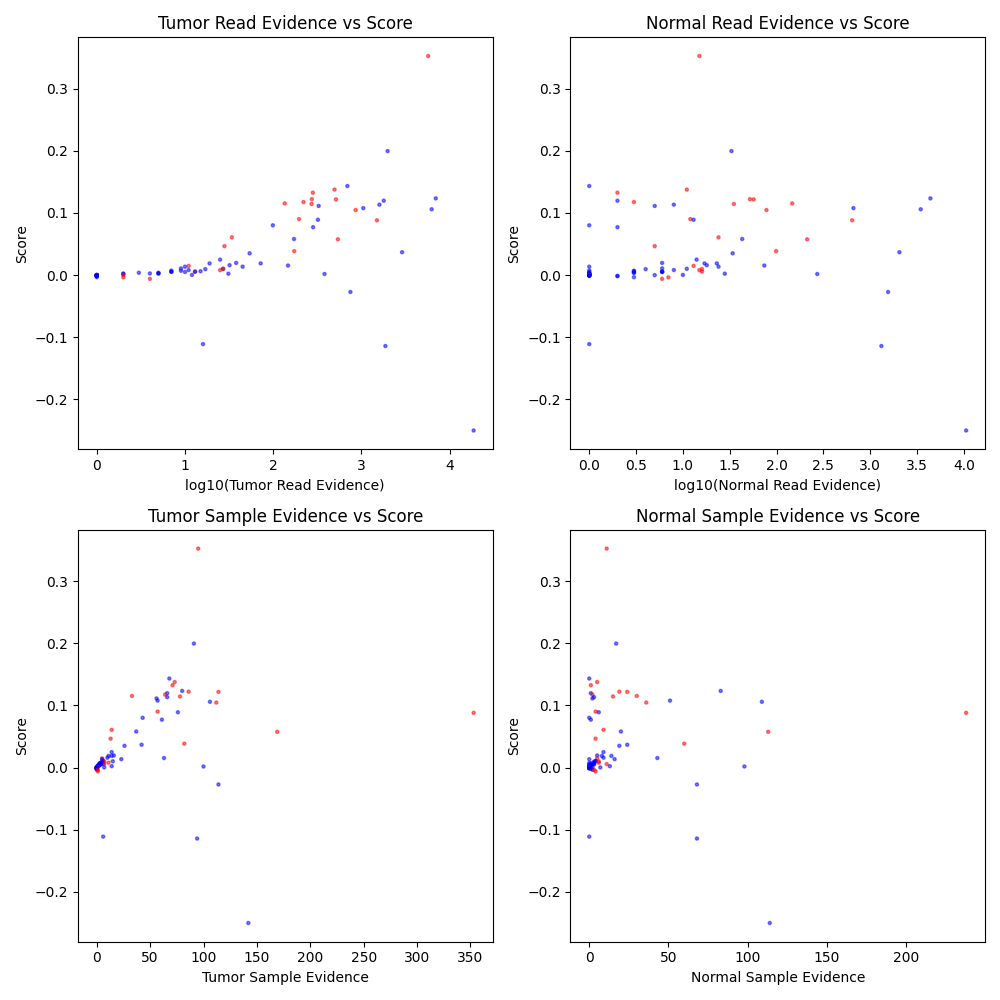
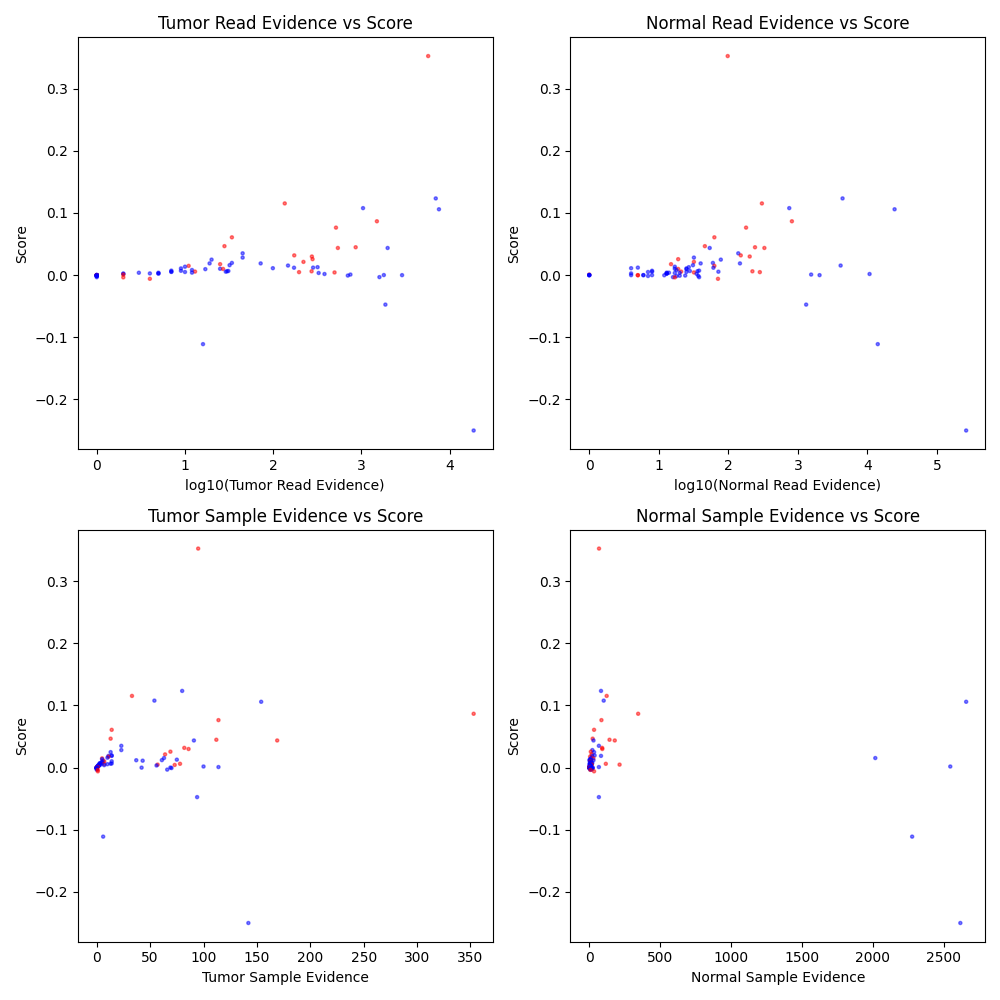
latest tumor v normal roc

diff --git a/results/2026_05-g2f-tumor_and_normal-rerun/score_tumor_fusions.py b/results/2026_05-g2f-tumor_and_normal-rerun/score_tumor_fusions.py
@@ -13,6 +13,7 @@ parser.add_argument('--colmap', default='score_column_map.yaml')
 parser.add_argument('--output', default='tumor-scored.tsv')
 parser.add_argument('--tumor_fusion_tissues', default='../2026_04-s2f_pcawg_recurrent/recurrent_tumor_fusions.tsv')
 parser.add_argument('--shardfile', default='./shardfile.tsv')
+parser.add_argument('--include_rna', action='store_true', help='whether to include rna evidence columns in scoring')
 
 args = parser.parse_args()
 
@@ -29,7 +30,13 @@ def tissue_w_data(tissues):
 
 # readinputs
 df_evidence = pd.read_csv(args.fusion_evidence, sep='\t')
+# use high cov 1000g, not low cov
 drop_cols = ['reads_low_coverage_1000g_dna', 'samples_low_coverage_1000g_dna']
+# optionally exclude rna
+if not args.include_rna:
+    for c in df_evidence.columns:
+        if c.endswith('_rna'):
+            drop_cols.append(c)
 df_evidence = df_evidence.drop(columns=drop_cols)
 df_tumor = pd.read_csv(args.tumor_fusions, sep='\t')
 df_tumor_fusion_tissues = pd.read_csv(args.tumor_fusion_tissues, sep='\t')
@@ -58,6 +65,9 @@ df_tumor = df_tumor[df_tumor['tissue_w_data'].apply(len) > 0].reset_index(drop=T
 # normalize evidence
 with open(args.colmap) as f:
     column_map = yaml.safe_load(f)
+if not args.include_rna:
+    # remove rna evidence columns from column map
+    column_map = {k:v for k,v in column_map.items() if not k.endswith('_rna')}
 df_evidence_tumor = pd.merge(
     df_tumor,
     df_evidence,

diff --git a/results/2026_06-roc_tumor_v_normal_tissue_specific/README.md b/results/2026_06-roc_tumor_v_normal_tissue_specific/README.md
@@ -9,3 +9,33 @@ for three different scoring techniques, use score as threshold in ROC
 i) aggregate evidence from all tissues, weighted by subpopulation size
 ii) aggregate evidence from all tissues, uniform subpop weights
 iii) score using only tissue where fusion occurs, uniform subpop-tissue weights
+
+# misclassification analysis
+
+- ZNF765--TPM3P9
+	- label: normal
+	- score: ~0.2
+	- data: {'reads_high_coverage_1000g_dna': 21.0, 'samples_high_coverage_1000g_dna': 13.0, 'reads_ovary_normal_dna': 32.0, 'samples_ovary_normal_dna': 17.0, 'reads_ovary_tumor_dna': 31.0, 'samples_ovary_tumor_dna': 21.0, 'reads_ovary_tumor_rna': 1946.0, 'samples_ovary_tumor_rna': 70.0}
+	- reason: RNA-seq is only available for tumor samples, not paired normal, causing positive score
+- SIDT2--TAGLN
+	- label: normal
+	- score: ~0.14
+	- data:  {'reads_bone_normal_dna': 0.0, 'samples_bone_normal_dna': 0.0, 'reads_bone_tumor_dna': 8.0, 'samples_bone_tumor_dna': 2.0, 'reads_esophagus_normal_dna': 0.0, 'samples_esophagus_normal_dna': 0.0, 'reads_esophagus_normal_dna': 0.0, 'samples_esophagus_normal_dna': 0.0, 'reads_esophagus_tumor_dna': 0.0, 'samples_esophagus_tumor_dna': 0.0, 'reads_gallbladder_normal_dna': 0.0, 'samples_gallbladder_normal_dna': 0.0, 'reads_gallbladder_tumor_dna': 0.0, 'samples_gallbladder_tumor_dna': 0.0, 'reads_high_coverage_1000g_dna': 23.0, 'samples_high_coverage_1000g_dna': 14.0, 'reads_pancreas_tumor_rna': 691.0, 'samples_pancreas_tumor_rna': 68.0}
+	- reason: RNA-seq is only available for tumor samples, not paired normal, causing positive score
+- NDC80--SMCHD1
+	- label: tumor
+	- score: ~-0.006
+	- data: {'reads_bone_normal_dna': 5.0, 'samples_bone_normal_dna': 4.0, 'reads_bone_tumor_dna': 3.0, 'samples_bone_tumor_dna': 1.0, 'reads_high_coverage_1000g_dna': 65.0, 'samples_high_coverage_1000g_dna': 30.0}
+	- reason: low tumor depth, some depth in normal and 1000g
+- STAT3--PTRF
+	- label: tumor
+	- score: ~-0.003
+	- data:  {'reads_breast_normal_dna': 6.0, 'samples_breast_normal_dna': 3.0, 'reads_breast_tumor_dna': 1.0, 'samples_breast_tumor_dna': 1.0, 'reads_high_coverage_1000g_dna': 10.0, 'samples_high_coverage_1000g_dna': 5.0}
+	- reason: low tumor depth, some depth in normal and 1000g
+
+addressing problems
+
+i) exclude RNA-seq
+ii) see if breakpoint or strand config is diff for the low scoring tumor fusions
+
+

diff --git a/results/2026_05-g2f-tumor_and_normal-rerun/README.md b/results/2026_05-g2f-tumor_and_normal-rerun/README.md
@@ -10,3 +10,7 @@ this may change the tumor v normal fusion classification experiment results
 
 use score to classify tumor v normal fusions for evaluation
 
+# details
+
+note: this directory only processes tumor fusions, not normal fusions
+